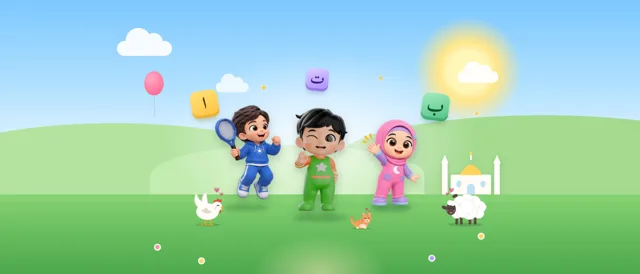
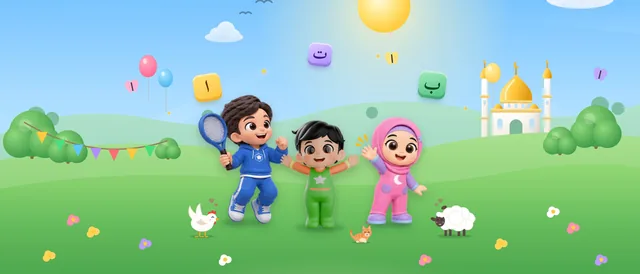
App Store Kit: livelier header + search art (sun rays, puffy clouds, golden-dome mosque, trees, bunting, balloons, butterflies, flowers); Baby Mo and Ais the same height, Kak Adam a little taller
Claude-Session: https://claude.ai/code/session_013wiJDRdH28m1FqwwMnvbtM

diff --git a/app/app-store-kit/page.tsx b/app/app-store-kit/page.tsx
@@ -273,7 +273,7 @@ export default function AppStoreKit() {
           ))}
 
           <h2 id="creative">Header &amp; Search Results</h2>
-          <p className="lead">The product page header and the search-results artwork (App Store Connect → Product Page Information → <b>Header and Search Results</b>). No transparency, as Apple requires. <b>✨ New design:</b> the App Store shows the header zoomed and cropped, with the status bar and the back/share buttons on top and the app card over the bottom, so a headline at the top got cut off. The new art has <b>no text</b> (your app name and subtitle already sit right below it); Baby Mo, Kak Adam and Ais stand together in the centre band, with sky at the top and grass at the bottom, so nothing important is ever hidden. The ID and EN files are the same picture; upload them to both localizations. Upload the <b>ID</b> files to the Indonesian localization and the <b>EN</b> files to English (U.S.).</p>
+          <p className="lead">The product page header and the search-results artwork (App Store Connect → Product Page Information → <b>Header and Search Results</b>). No transparency, as Apple requires. <b>✨ Updated 11 Nov 2026:</b> livelier scene (sun rays, puffy clouds, golden-dome mosque, trees, bunting, balloons, butterflies and flowers); Baby Mo and Ais the same height, Kak Adam a little taller. <b>✨ New design:</b> the App Store shows the header zoomed and cropped, with the status bar and the back/share buttons on top and the app card over the bottom, so a headline at the top got cut off. The new art has <b>no text</b> (your app name and subtitle already sit right below it); Baby Mo, Kak Adam and Ais stand together in the centre band, with sky at the top and grass at the bottom, so nothing important is ever hidden. The ID and EN files are the same picture; upload them to both localizations. Upload the <b>ID</b> files to the Indonesian localization and the <b>EN</b> files to English (U.S.).</p>
           <section className="group" id="creative-assets">
             <div className="ghead">
               <div><h3>Header &amp; search artwork · ID + EN</h3><p>6 images · Baby Mo, Kak Adam and Ais with the farm friends and hijaiyah blocks</p></div>
